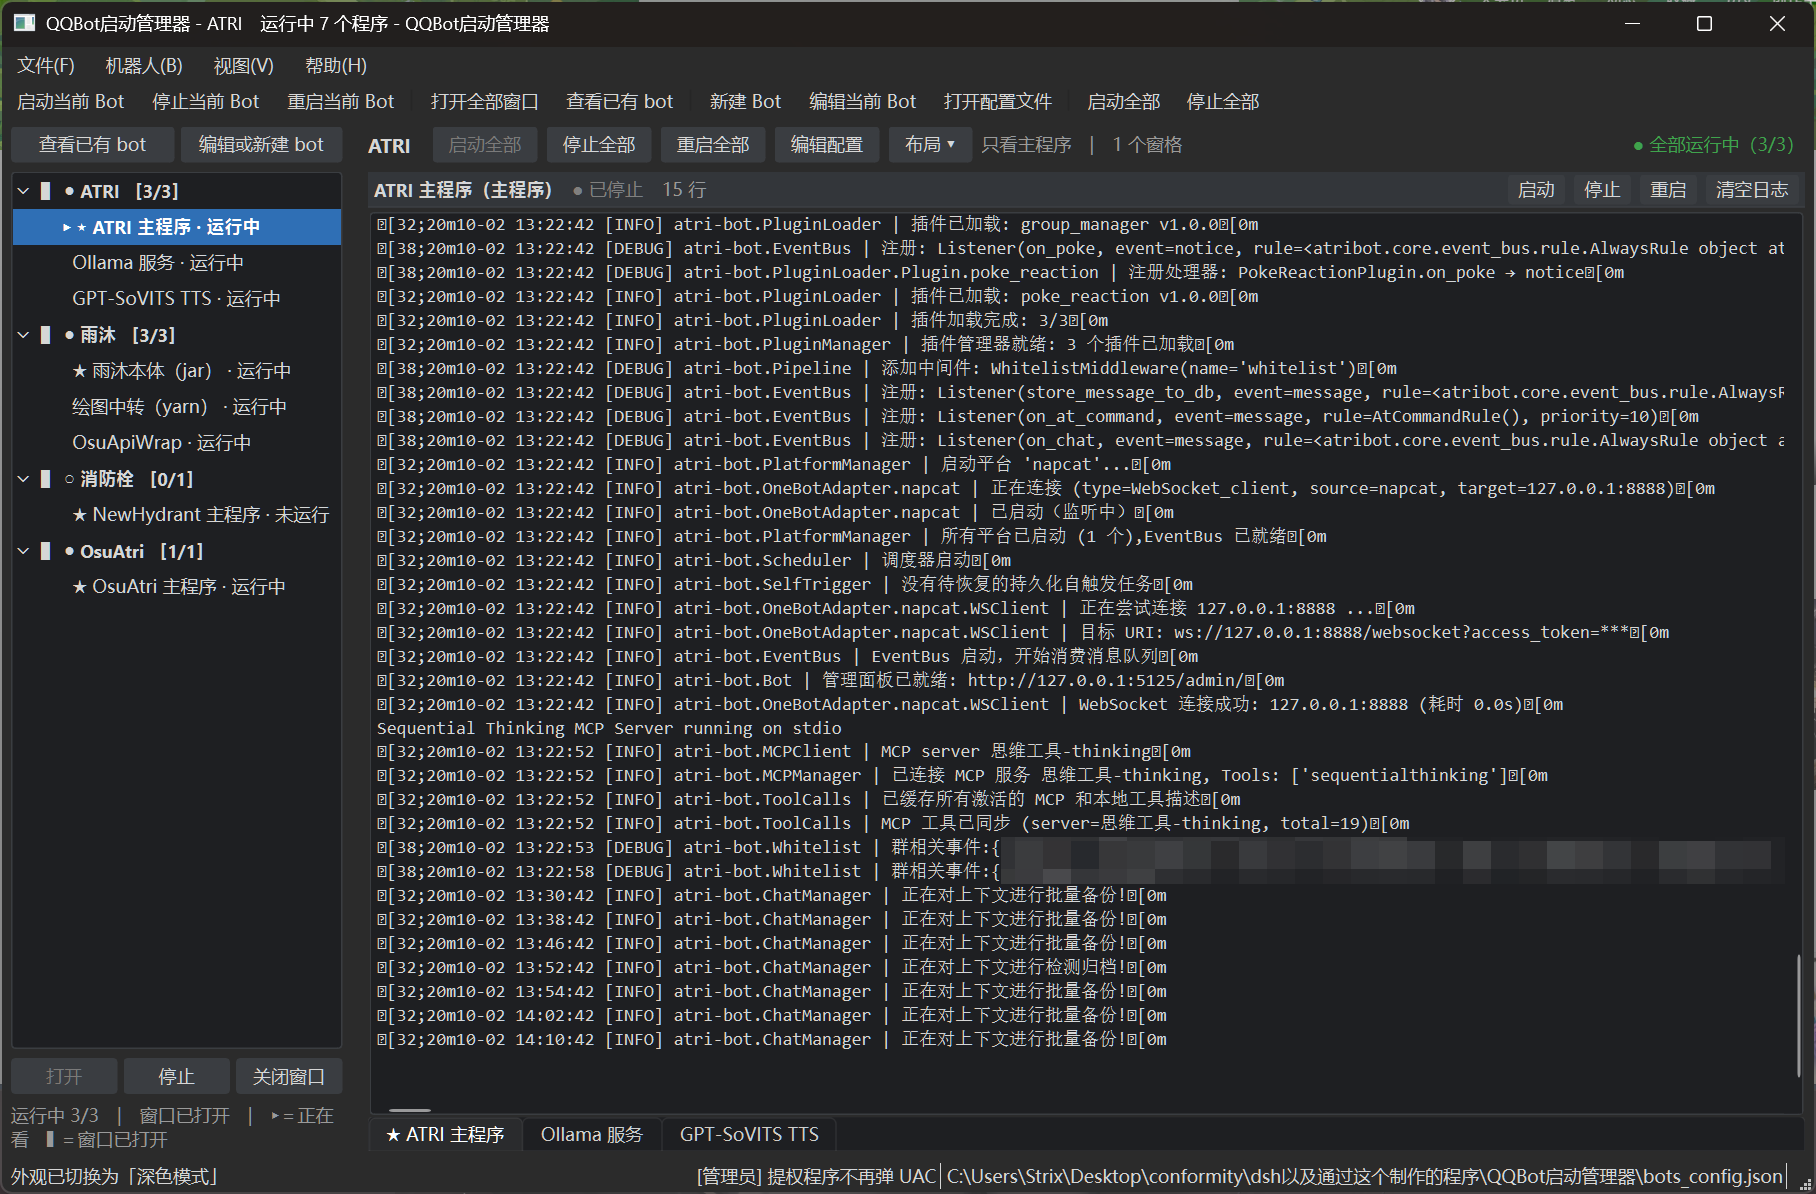
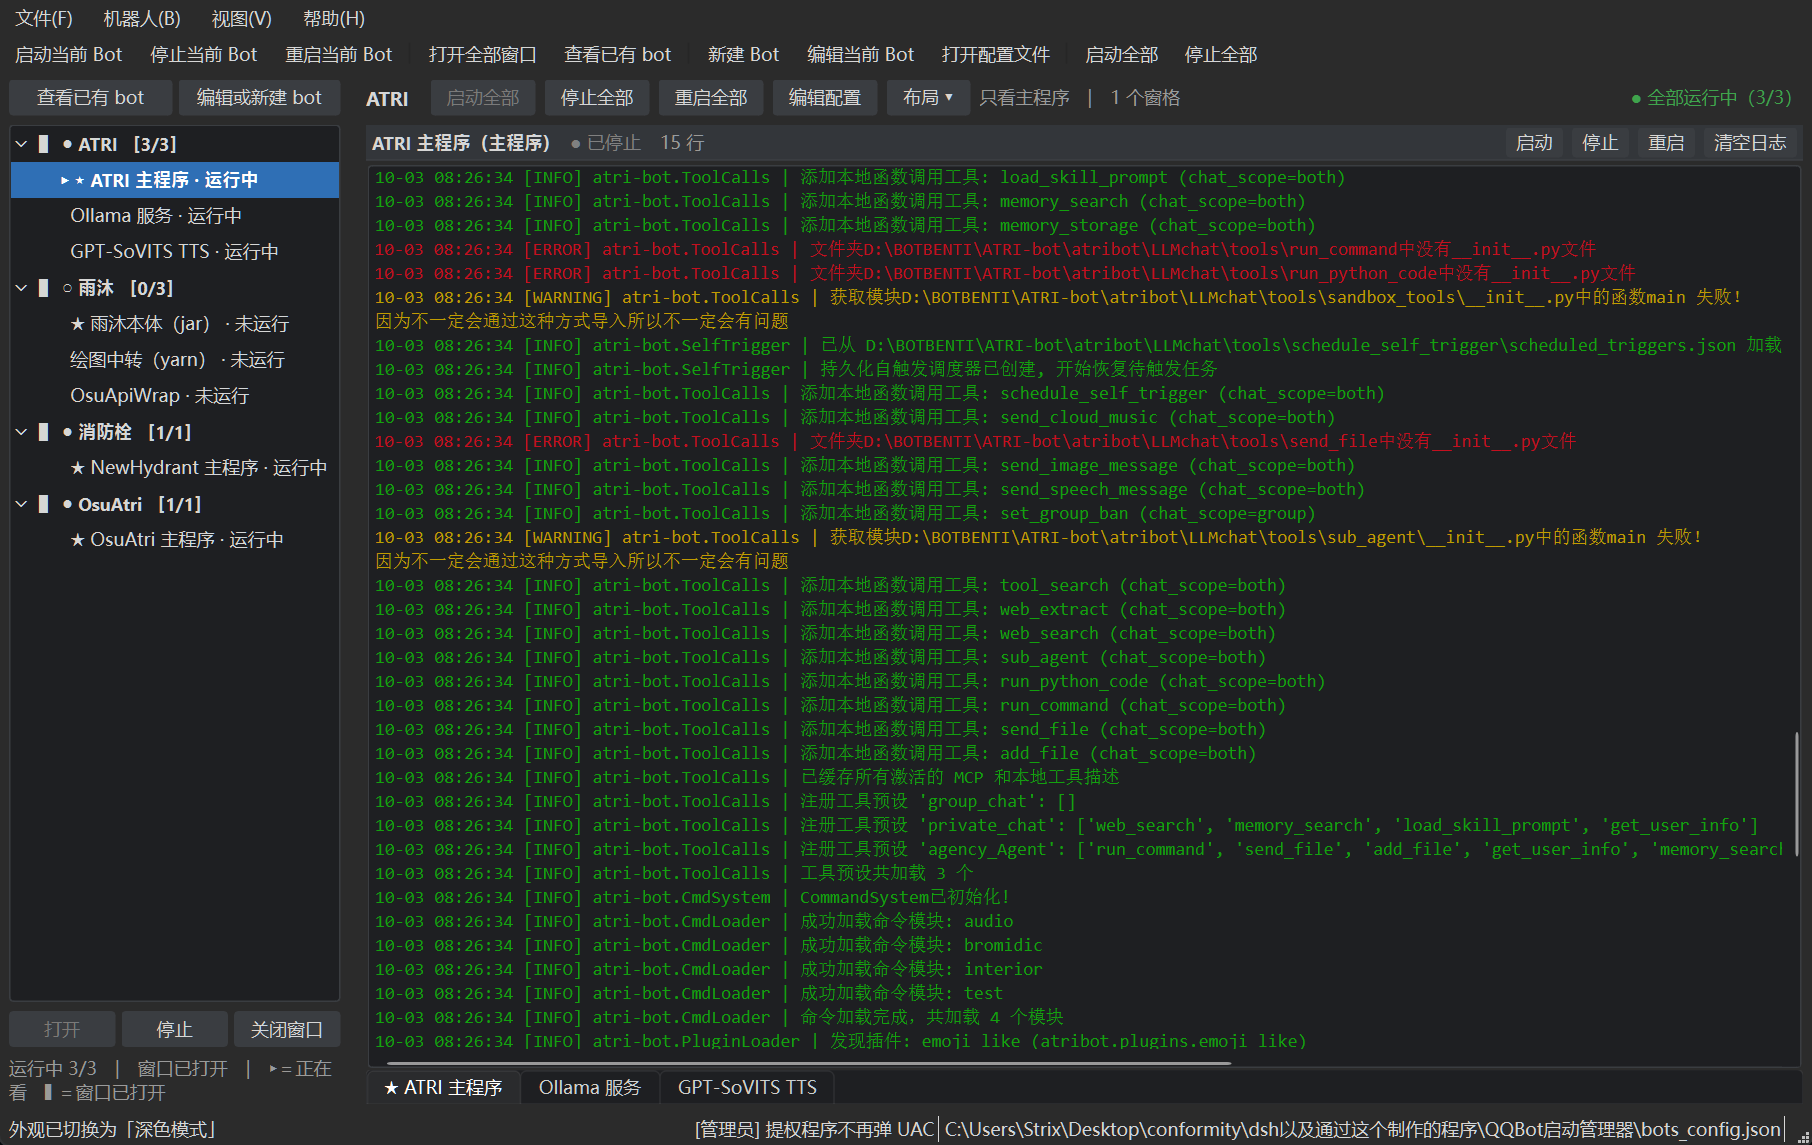
更新 README 图示（换成新的浅色/深色实拍）并写明"颜色与文字色全部可改"
- docs/screenshots/main-window-light.png / main-window-dark.png 换成用户新拍的两张
  （同一台机器、同一批日志，只差一个外观设置；1812x1145）
- README「界面预览」：
  · 开头点明两张只差外观，并说明界面每个部位的颜色与所有文字颜色都能自己调
  · 新增小节 **「颜色全部可以自己改」**：列出可改的部位（窗体/工具栏、左侧列表、
    日志区、窗格边框）与文字色（主文字、次要文字、禁用文字、选中行文字、
    强调色上的文字、日志文字）+ 16 种 ANSI 颜色，深浅两套各调各的；
    并说明入口是 视图 → 外观 → 配色工作台…（改一下立即生效，可保存 + 12 条配色记录）
- 功能一览与 3.4 的措辞同步：明确"不只是底色，文字色也在里面"
- 目录已重新生成

自检：tools/run_all_checks.py → 通过 25 · 失败 0 · 跳过 3（28 个）；check_doc_links 全绿

diff --git a/README.md b/README.md
@@ -59,6 +59,7 @@
   - [它适合谁](#它适合谁)
   - [怎么跑起来（先看这里）](#怎么跑起来先看这里)
 - [界面预览](#界面预览)
+  - [颜色全部可以自己改](#颜色全部可以自己改)
 - [功能一览](#功能一览)
 - [环境要求](#环境要求)
 - [一、安装依赖](#一安装依赖)
@@ -104,6 +105,7 @@
 
 配置好各个机器人、把实例都启动起来之后，界面大致就是这个样子
 （同一台机器、同一批日志，两张只差一个外观设置）：
+界面里**每一个部位的颜色、以及所有文字的颜色**都能自己调 —— 见下面第二张后面的说明。
 
 **① 浅色模式**
 
@@ -123,6 +125,17 @@
 >
 > 想把自己的截图贴进 Issue / PR：记得先给日志脱敏（token、QQ 号、内网地址），
 > 对照表见[报 Issue（推荐，最省事）](#报-issue推荐最省事)。
+
+### 颜色全部可以自己改
+
+上面两张图里**每一处的颜色**都不是写死的：窗体 / 工具栏、左侧机器人列表、日志区、
+窗格边框，以及**主文字、次要文字、禁用文字、选中行文字、强调色上的文字、日志文字**
+—— 再加上日志里 16 种 ANSI 颜色，**深浅两套各调各的**。
+
+打开方式：**视图 → 外观 → 配色工作台…**，点色块开取色器即可，
+**改一下主界面立即跟着变，不用重启**；满意的配色点「保存」，
+最多留 12 条**配色记录**，随时能套回去。详见
+[3.4 配色工作台](#34-配色工作台整个界面的颜色都能自己调改了立即生效)。
 
 ---
 
@@ -154,8 +167,10 @@
 - **右键菜单**：日志区右键可对单个程序或全部程序执行 启动 / 停止 / 重启 / 编辑配置 / 清空日志 / 复制日志 / 打开工作目录 / 关闭本页。
 - **界面记忆**：窗口大小位置、每个 Bot 的分割比例、当前选中的 Tab、上次打开的 Tab、左侧列表的折叠状态与宽度、启动间隔等通过 `QSettings` 保存。
 - **三态外观**：跟随系统 / 浅色 / 深色，**切换立即生效**，全局只有一套调色板（跟随系统 = 读系统深浅后套用我们自己的对应配色）。
-- **整界面配色可调**（视图 → 外观 → 配色工作台…）：15 个界面角色 + 16 个 ANSI 颜色，
-  深浅各一套；**改一下立即生效**，「保存」写进设置并留下一条**配色记录**（最多 12 条，可随时套用回去）。
+- **整界面配色可调**（视图 → 外观 → 配色工作台…）：**15 个界面角色 + 16 个 ANSI 颜色**，
+  深浅各一套 —— 不只是底色，**文字色**（主文字 / 次要文字 / 禁用文字 / 选中行文字 /
+  强调色上的文字 / 日志文字）也都在里面；**改一下立即生效**，
+  「保存」写进设置并留下一条**配色记录**（最多 12 条，可随时套用回去）。
 - **导航三态标记**：`▸ ` 全局唯一的"当前正在看的程序"、`▌ ` "已打开窗口的机器人"、蓝色高亮"选中行"，三者相互独立。
 - **分屏布局**：每个 Bot 可选 6 种模板（单窗格 / 上下 / 左右 / 左宽右上下 / 左右下 / 全标签）或自定义树，比例与焦点都会记住。
 - **安全退出**：关闭窗口时确认后统一停止所有进程，不留残余。
@@ -545,6 +560,8 @@ python main.py --theme-debug
 | `Window亮度` | 调色板 Window 角色的亮度：深色应 < 128、浅色应 ≥ 128 |
 
 ### 3.4 配色工作台：整个界面的颜色都能自己调，**改了立即生效**
+
+**界面里每一个部位的颜色和文字颜色，全都能改**（深浅两套各调各的）。
 
 内置配色是按 **WCAG 对比度**配的（浅色板基础色 ≥ 8:1、亮色 ≈ 6:1），
 但"顺不顺眼"是主观的，而且**底色一换、合适的颜色就跟着变** —— 所以做了个工作台：
